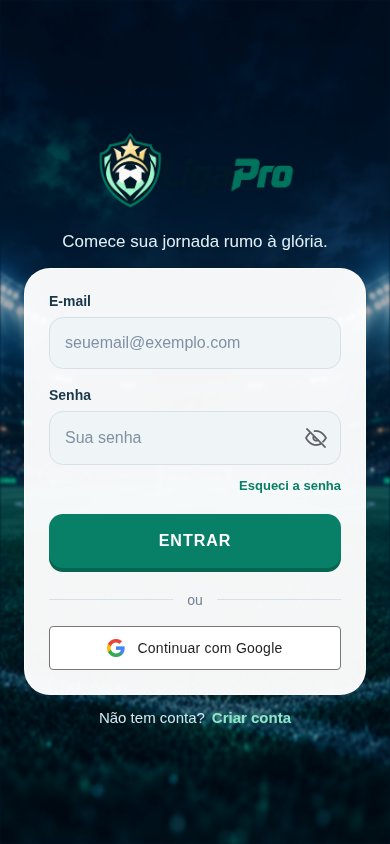
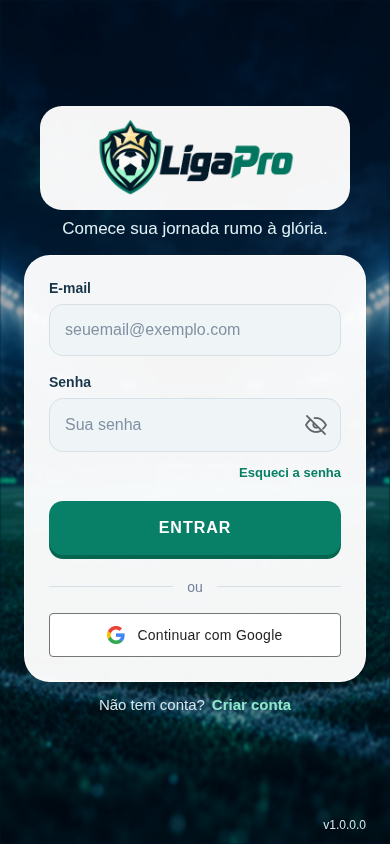
Automate four-part app version and display it in login footer

diff --git a/mobile/src/components/AuthForm.tsx b/mobile/src/components/AuthForm.tsx
@@ -1,9 +1,11 @@
 import { useState } from 'react';
+import version from '../../version.json';
 import { ActivityIndicator, Image, ImageBackground, ImageSourcePropType, KeyboardAvoidingView, Platform, Pressable, ScrollView, StyleSheet, Text, TextInput, View } from 'react-native';
 import { SafeAreaView } from 'react-native-safe-area-context';
 import { ActionButton, Card, Field, GamePage, NotificationBubble, palette } from './GameUI';
 import { useNotificationStore } from '../stores/notificationStore';
 import { useAuthStore } from '../stores/authStore';
+const appVersion = `${version.major}.${version.minor}.${version.patch}.${version.revision}`;
 export function AuthForm({ register = false, onCreateAccount, onLogin, background }: {
   register?: boolean; onCreateAccount?: () => void; onLogin?: () => void; background?: ImageSourcePropType;
 }) {
@@ -48,6 +50,7 @@ export function AuthForm({ register = false, onCreateAccount, onLogin, backgroun
           <View style={styles.signup}><Text style={{ color: '#d5e5ee', fontSize: 15 }}>Não tem conta?</Text><Pressable accessibilityRole="button" disabled={auth.loading} onPress={() => onCreateAccount?.()} hitSlop={8}><Text style={{ color: '#8ce7c9', fontWeight: '800', fontSize: 15 }}>Criar conta</Text></Pressable></View>
         </View>
       </ScrollView>
+      <View style={styles.footer}><Text accessibilityLabel={`Versão do aplicativo ${appVersion}`} style={styles.version}>v{appVersion}</Text></View>
     </KeyboardAvoidingView></SafeAreaView>
   </ImageBackground>;
   return <GamePage error={validation || auth.error} loading={auth.loading}>
@@ -97,5 +100,7 @@ const styles = StyleSheet.create({
   line: { flex: 1, height: 1, backgroundColor: '#d6e1e7' },
   google: { flexDirection: 'row', alignItems: 'center', justifyContent: 'center', gap: 12, paddingHorizontal: 12, backgroundColor: '#fff', borderWidth: 1, borderColor: '#747775', borderRadius: 4, minHeight: 44 },
   googleText: { color: '#1f1f1f', fontSize: 14, fontWeight: '500', letterSpacing: 0.25 },
+  footer: { alignItems: 'flex-end', paddingHorizontal: 24, paddingBottom: 12 },
+  version: { color: '#d5e5ee', fontSize: 12 },
   signup: { flexDirection: 'row', justifyContent: 'center', flexWrap: 'wrap', gap: 7 },
 });

diff --git a/mobile/app.config.js b/mobile/app.config.js
@@ -1,5 +1,7 @@
 const { expo } = require('./app.json');
+const version = require('./version.json');
 module.exports = () => ({ ...expo,
+  version: `${version.major}.${version.minor}.${version.patch}`,
   ios: { ...expo.ios, bundleIdentifier: 'com.ligapro.app' },
   plugins: ['expo-secure-store',
     ...(process.env.GOOGLE_IOS_URL_SCHEME ? [

diff --git a/README.md b/README.md
@@ -491,3 +491,7 @@ Em 06/10/2026, cinco branches do Dependabot foram revisadas e integradas ao hist
 React DOM acompanha React em 19.2.3. Não atualize esses pacotes isoladamente; verifique a matriz do Expo, o renderizador nativo, tipos, lint, testes e builds. `npm ci` usa o lockfile versionado; para verificar alinhamento, execute `npx expo install --check`.
 
 Dependabot utiliza `open-pull-requests-limit: 0` para atualizações de versões npm/pip. Isso interrompe novas PRs automáticas de versões; alertas e atualizações de segurança têm configuração separada no GitHub. Proteção de branch e permissões são configuradas no GitHub, não pelos arquivos locais; mantenha qualquer regra compatível com o fluxo autorizado de trabalho na `main`.
+
+### Versão do aplicativo
+
+O rodapé do login mostra `v1.0.0.0`, no formato principal.secundária.correção.revisão, definido em `mobile/version.json`. O workflow **App version** incrementa automaticamente a revisão após atualizações na `main` e envia um commit com o novo número. A primeira publicação mantém a revisão zero; commits que alteram apenas esse arquivo não reiniciam o workflow. A automação precisa de permissão de escrita na `main`. O deploy do frontend deve usar o commit mais recente, incluindo a atualização automática. Para uma nova versão principal, secundária ou de correção, ajuste esses campos e zere a revisão. Expo usa os três primeiros números; o rodapé inclui os quatro.
